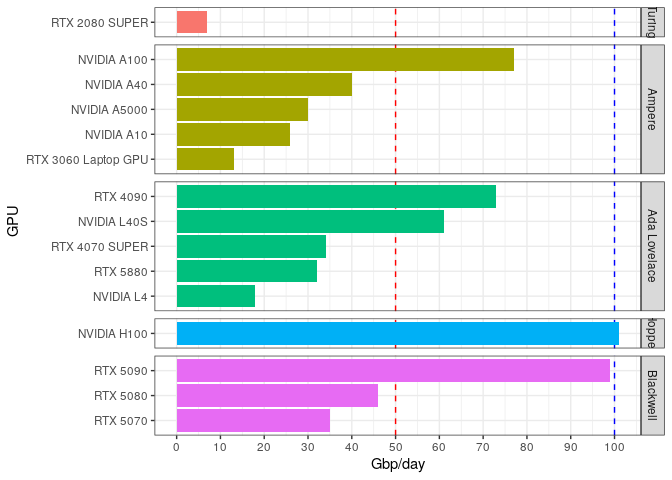
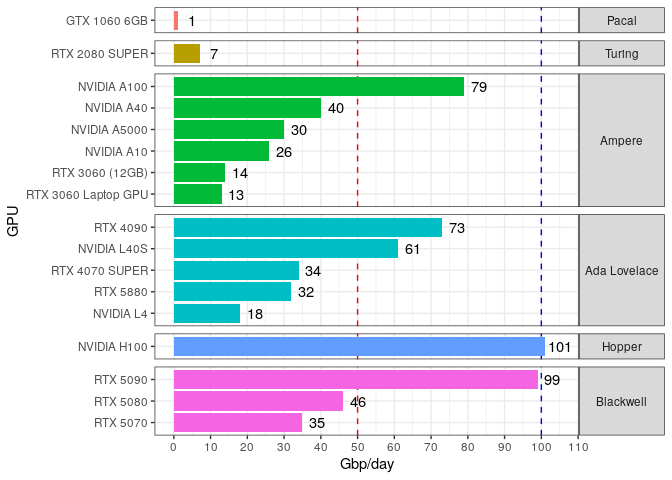
added 1060 and 3060 desktop

diff --git a/README.md b/README.md
@@ -1,7 +1,7 @@
 README
 ================
 Rasmus Kirkegaard
-11 April, 2025
+14 April, 2025
 
 ## Aim
 
